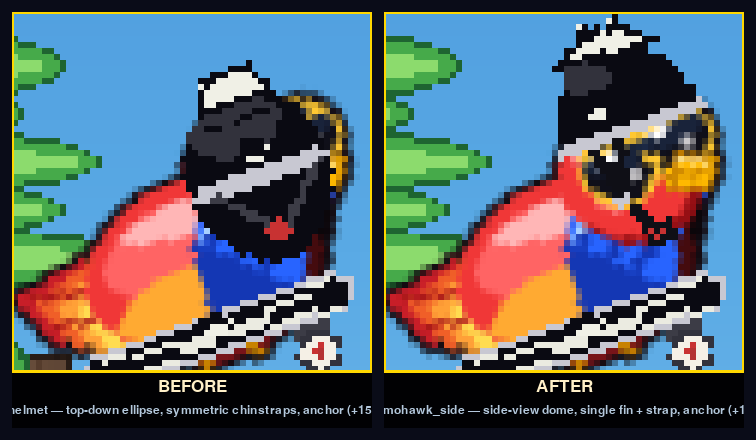
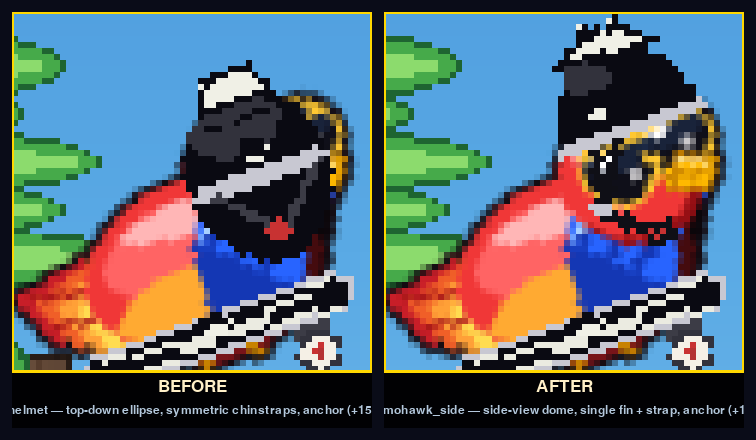
SKATEBOARD helmet: live rewrite with N4 anchors + thicker lower strap
User picked N4 as the final design and asked for the bottom part
of the strap to be filled with more black pixels.

Live Bird._draw_helmet chinstrap now:
  * front_anchor (12, 20) on the rim
  * rear_anchor  (8, 20)  on the rim (clamped to dome's left edge)
  * V-junction   (6, 30)  — left of the ear, on the red feathers
  * chin clip    (14, 37) — at Pip's chin/throat
  * Upper V (rim → junction) drawn at 2 px each
  * Lower strap (junction → chin) drawn at 3 px — bold black line
    that reads clearly as the chin-securing strap

https://claude.ai/code/session_01Ms85cBEeRiAtxZBCNh5vN5

Changed region(s): [[0.7606, 0.325, 0.8823, 0.5318]]

diff --git a/game/entities.py b/game/entities.py
@@ -1187,17 +1187,23 @@ class Bird:
         pygame.draw.ellipse(helm, (10, 10, 18), sk, 1)
 
         # Chinstrap — modelled after a real skate helmet (Triple 8 /
-        # Pro-Tec). Both strap anchors sit on the SIDE of the rim
-        # (over the ear), close together — NOT one over the brow
-        # and one over the nape. A plastic slider sits just below
-        # the rim at the ear, then a single strap angles down-and-
-        # forward to a side-release clip under Pip's chin. The
-        # strap hugs the side of the head; it never crosses the eye
-        # or beak. Surface coords (with anchor (+18, -10) and the
-        # taller drop=28 surface, world_y = surface_y - 35.5):
-        #   front_anchor = (12, 20) — front of ear, on the rim
-        #   rear_anchor  = ( 8, 20) — back of ear, on the rim
-        #   junction     = (10, 30) — adjuster slider at world y=-5.5
+        # Pro-Tec). The V-junction sits "just below + slightly
+        # forward of the ear" (BHSI fit rule). The strap path stays
+        # on Pip's red feathers, behind the sunglasses lens. The
+        # lower segment (junction → chin clip) is drawn 3 px thick
+        # for visibility — it's the part the eye reads as "the
+        # strap holding the helmet on".
+        #
+        # Surface coords (anchor (+18, -10), drop=28 → world_y =
+        # surface_y - 35.5):
+        #   front_anchor = (pad+8, 20) = (12, 20) — on the rim
+        #   rear_anchor  = (pad+4, 20) = (8, 20)  — on the rim
+        #                                          (rear clamped to
+        #                                          the dome's left
+        #                                          edge so the strap
+        #                                          attaches visibly)
+        #   junction     = (6, 30) — adjuster at world y=-5.5,
+        #                            left of the ear
         #   chin clip    = (14, 37) — chin at world y=+1.5
         OUT     = (15, 15, 22)
         CHROME  = (200, 200, 210)
@@ -1208,11 +1214,14 @@ class Bird:
         STRAP   = OUT
         front_anchor = (pad + 8, pad + hh + 1)
         rear_anchor  = (pad + 4, pad + hh + 1)
-        junction     = (10, 30)
+        junction     = (6, 30)
         clip_centre  = (14, 37)
+        # Upper V — two 2-px straps from rim to junction.
         pygame.draw.line(helm, STRAP, front_anchor, junction, 2)
         pygame.draw.line(helm, STRAP, rear_anchor,  junction, 2)
-        pygame.draw.line(helm, STRAP, junction, clip_centre, 2)
+        # Lower strap — 3 px thick so the bottom segment reads
+        # clearly as the chin-securing strap.
+        pygame.draw.line(helm, STRAP, junction, clip_centre, 3)
         # Plastic adjuster slider at the ear junction — tiny 3×2
         # body with a chrome outline.
         adj = pygame.Rect(junction[0] - 1, junction[1] - 1, 3, 2)
